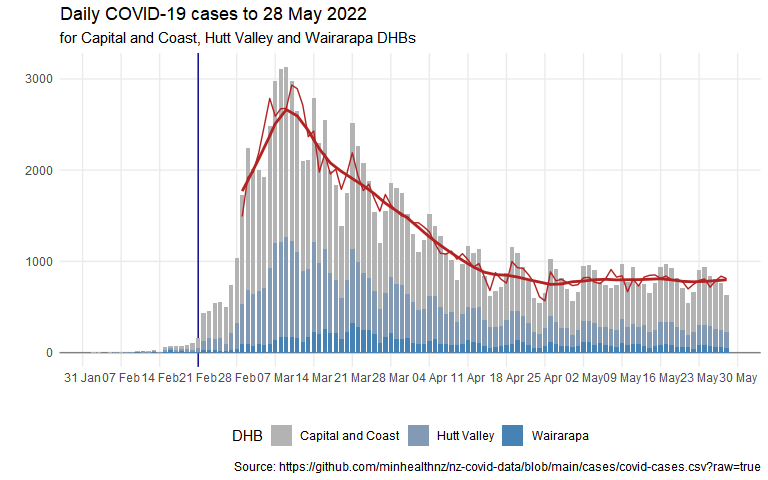
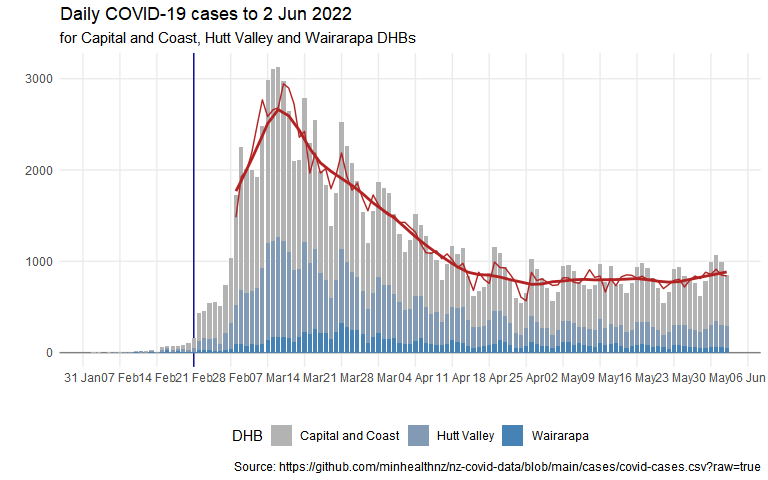
update for 20220603

Changed region(s): [[0.125, 0.125, 1.0, 0.8125], [0.3438, 0.0, 0.4688, 0.0625]]

diff --git a/covid-post-peak-analysis.md b/covid-post-peak-analysis.md
@@ -30,7 +30,7 @@ cases_df <- read_csv(case_data_url) %>%
 
     ## Warning: One or more parsing issues, see `problems()` for details
 
-    ## Rows: 1148045 Columns: 7
+    ## Rows: 1185151 Columns: 7
 
     ## -- Column specification --------------------------------------------------------
     ## Delimiter: ","
@@ -49,7 +49,7 @@ cases_by_dhb_df <- cases_df %>%
   count(report_date, dhb, case_status)
 ```
 
-## Wellington figures up to 28 May 2022
+## Wellington figures up to 2 Jun 2022
 
 Including Hutt and Wairarapa as well as CCDHB.
 
